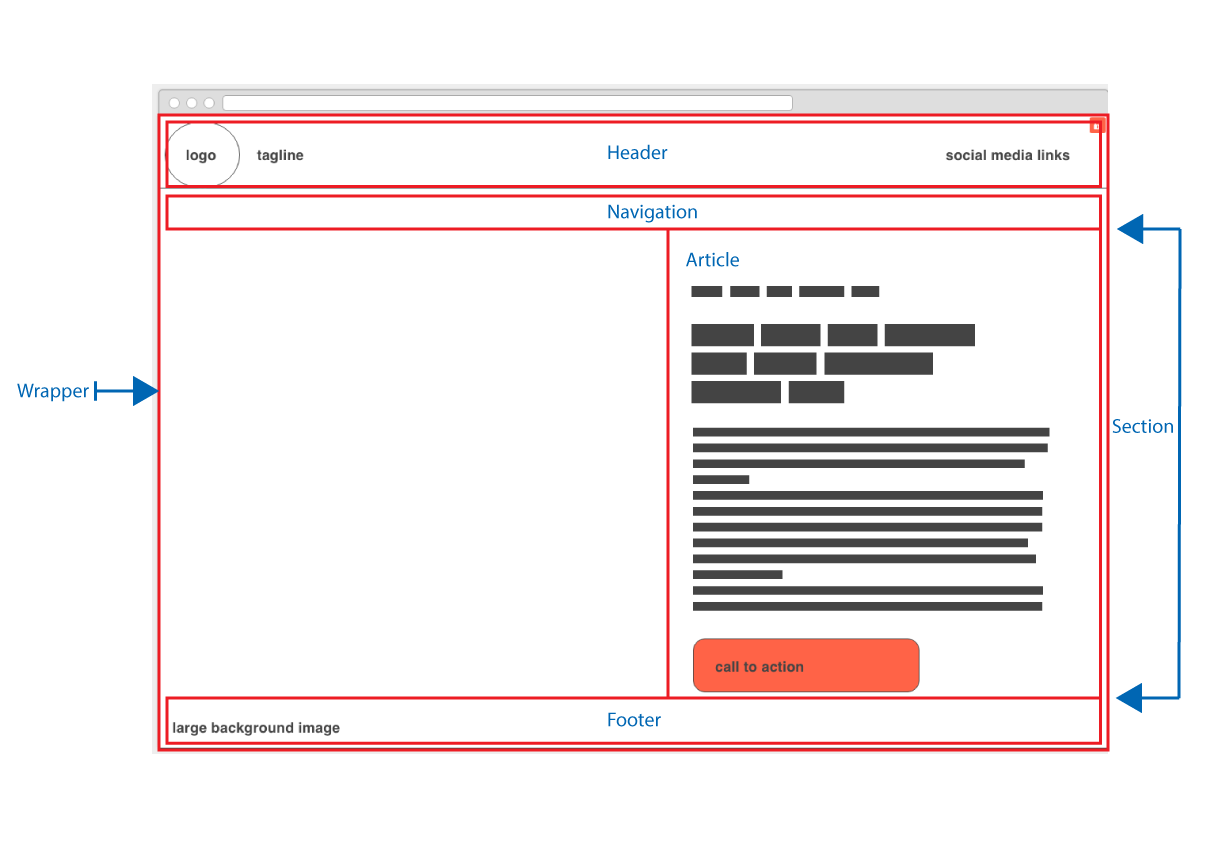
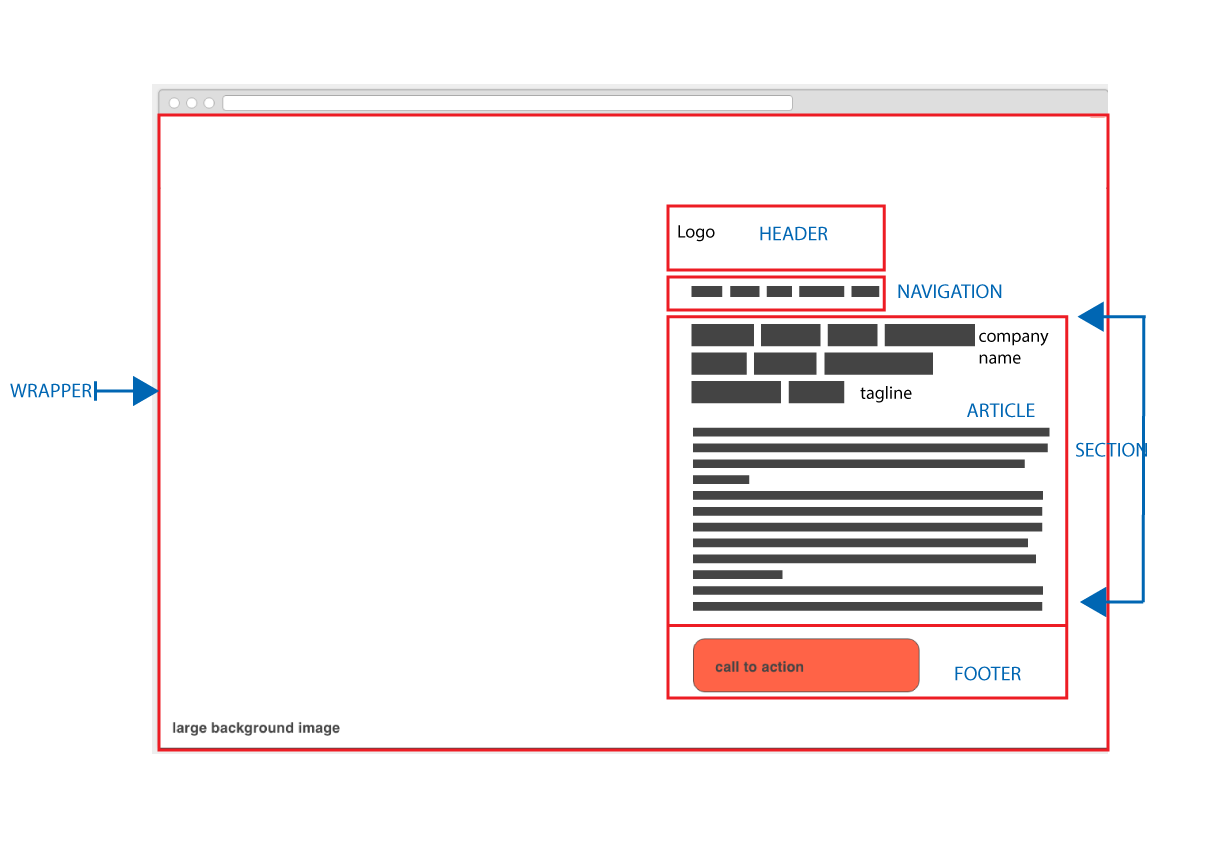
Add files via upload

diff --git a/unit_5/index.html b/unit_5/index.html
@@ -5,21 +5,49 @@
 		<link rel="stylesheet" type="text/css" href="css/style.css">
 	</head>
 	<body>
-	<img src="images/tcl.png" 
+	<div class="wrapper">
+	
+	<header>
+		<img src="images/tcl.png" 
 		alt="ThunderCloudLove" 
 		title="ThunderCloudLov logo"> 
+	</header>
+	
+	<nav>
+		<a href="#">about</a> &#9679
+		<a href="#">portfolio</a> &#9679
+		<a href="#">contact</a>
+		</a>
+	</nav>
+
+	<main>
+		
+	<article id="description">
 		<h1 id="headline">ThunderCloudLove Design</h1>
 		<p id="slogan">Make your own thunder.</p>
 		<p id="about">Lorem ipsum dolor sit amet, consectetur adipisicing elit, sed do eiusmod tempor incididunt ut labore et dolore magna aliqua. Ut enim adminim veniam,quis nostrud exercitation ullamco laboris nisi ut aliquip ex ea commodo consequat. Duis aute irure dolor in reprehenderit in voluptate velit esse cillum dolore eu fugiat nulla pariatur. Excepteur sint occaecat cupidatat non proident, sunt in culpa qui officia deserunt mollit anim id est laborum. </p>
 
 		<p id="about">Lorem ipsum dolor sit amet, consectetur adipisicing elit, sed do eiusmod tempor incididunt ut labore et dolore magna aliqua. Ut enim adminim veniam,quis nostrud exercitation ullamco laboris nisi ut aliquip ex ea commodo consequat. Duis aute irure dolor in reprehenderit in voluptate velit esse cillum dolore eu fugiat nulla pariatur. Excepteur sint occaecat cupidatat non proident, sunt in culpa qui officia deserunt mollit anim id est laborum.</p>
-		<ul style="list-style-type: none">
-		<li>digital strategy</li>
-		<li>event design</li>
-		<li>illustration</li>
-		<li>infographics</li>
-		<li>graphic design</li>
-		</ul>
+
+			<ul style="list-style-type: none">
+			<li> <a href="#">digital strategy</a></li>
+			<li><a href="#">event design</a></li>
+			<li><a href="#">illustration</a></li>
+			<li><a href="#">infographics</a></li>
+			<li><a href="#">graphic design</a></li>
+			</ul>
+	</article>
+		
+	</main>
+
+	<footer>
+		<img src="images/circular6.png" 
+		alt="prism" 
+		title="colorful prism">
+		
 		<p id="contact">Contact <a href="mailto:treecat321@gmail.com?subject=contact!">me.</a></p>
+	</footer>
+	</div>
 	</body>
+
 </html>
